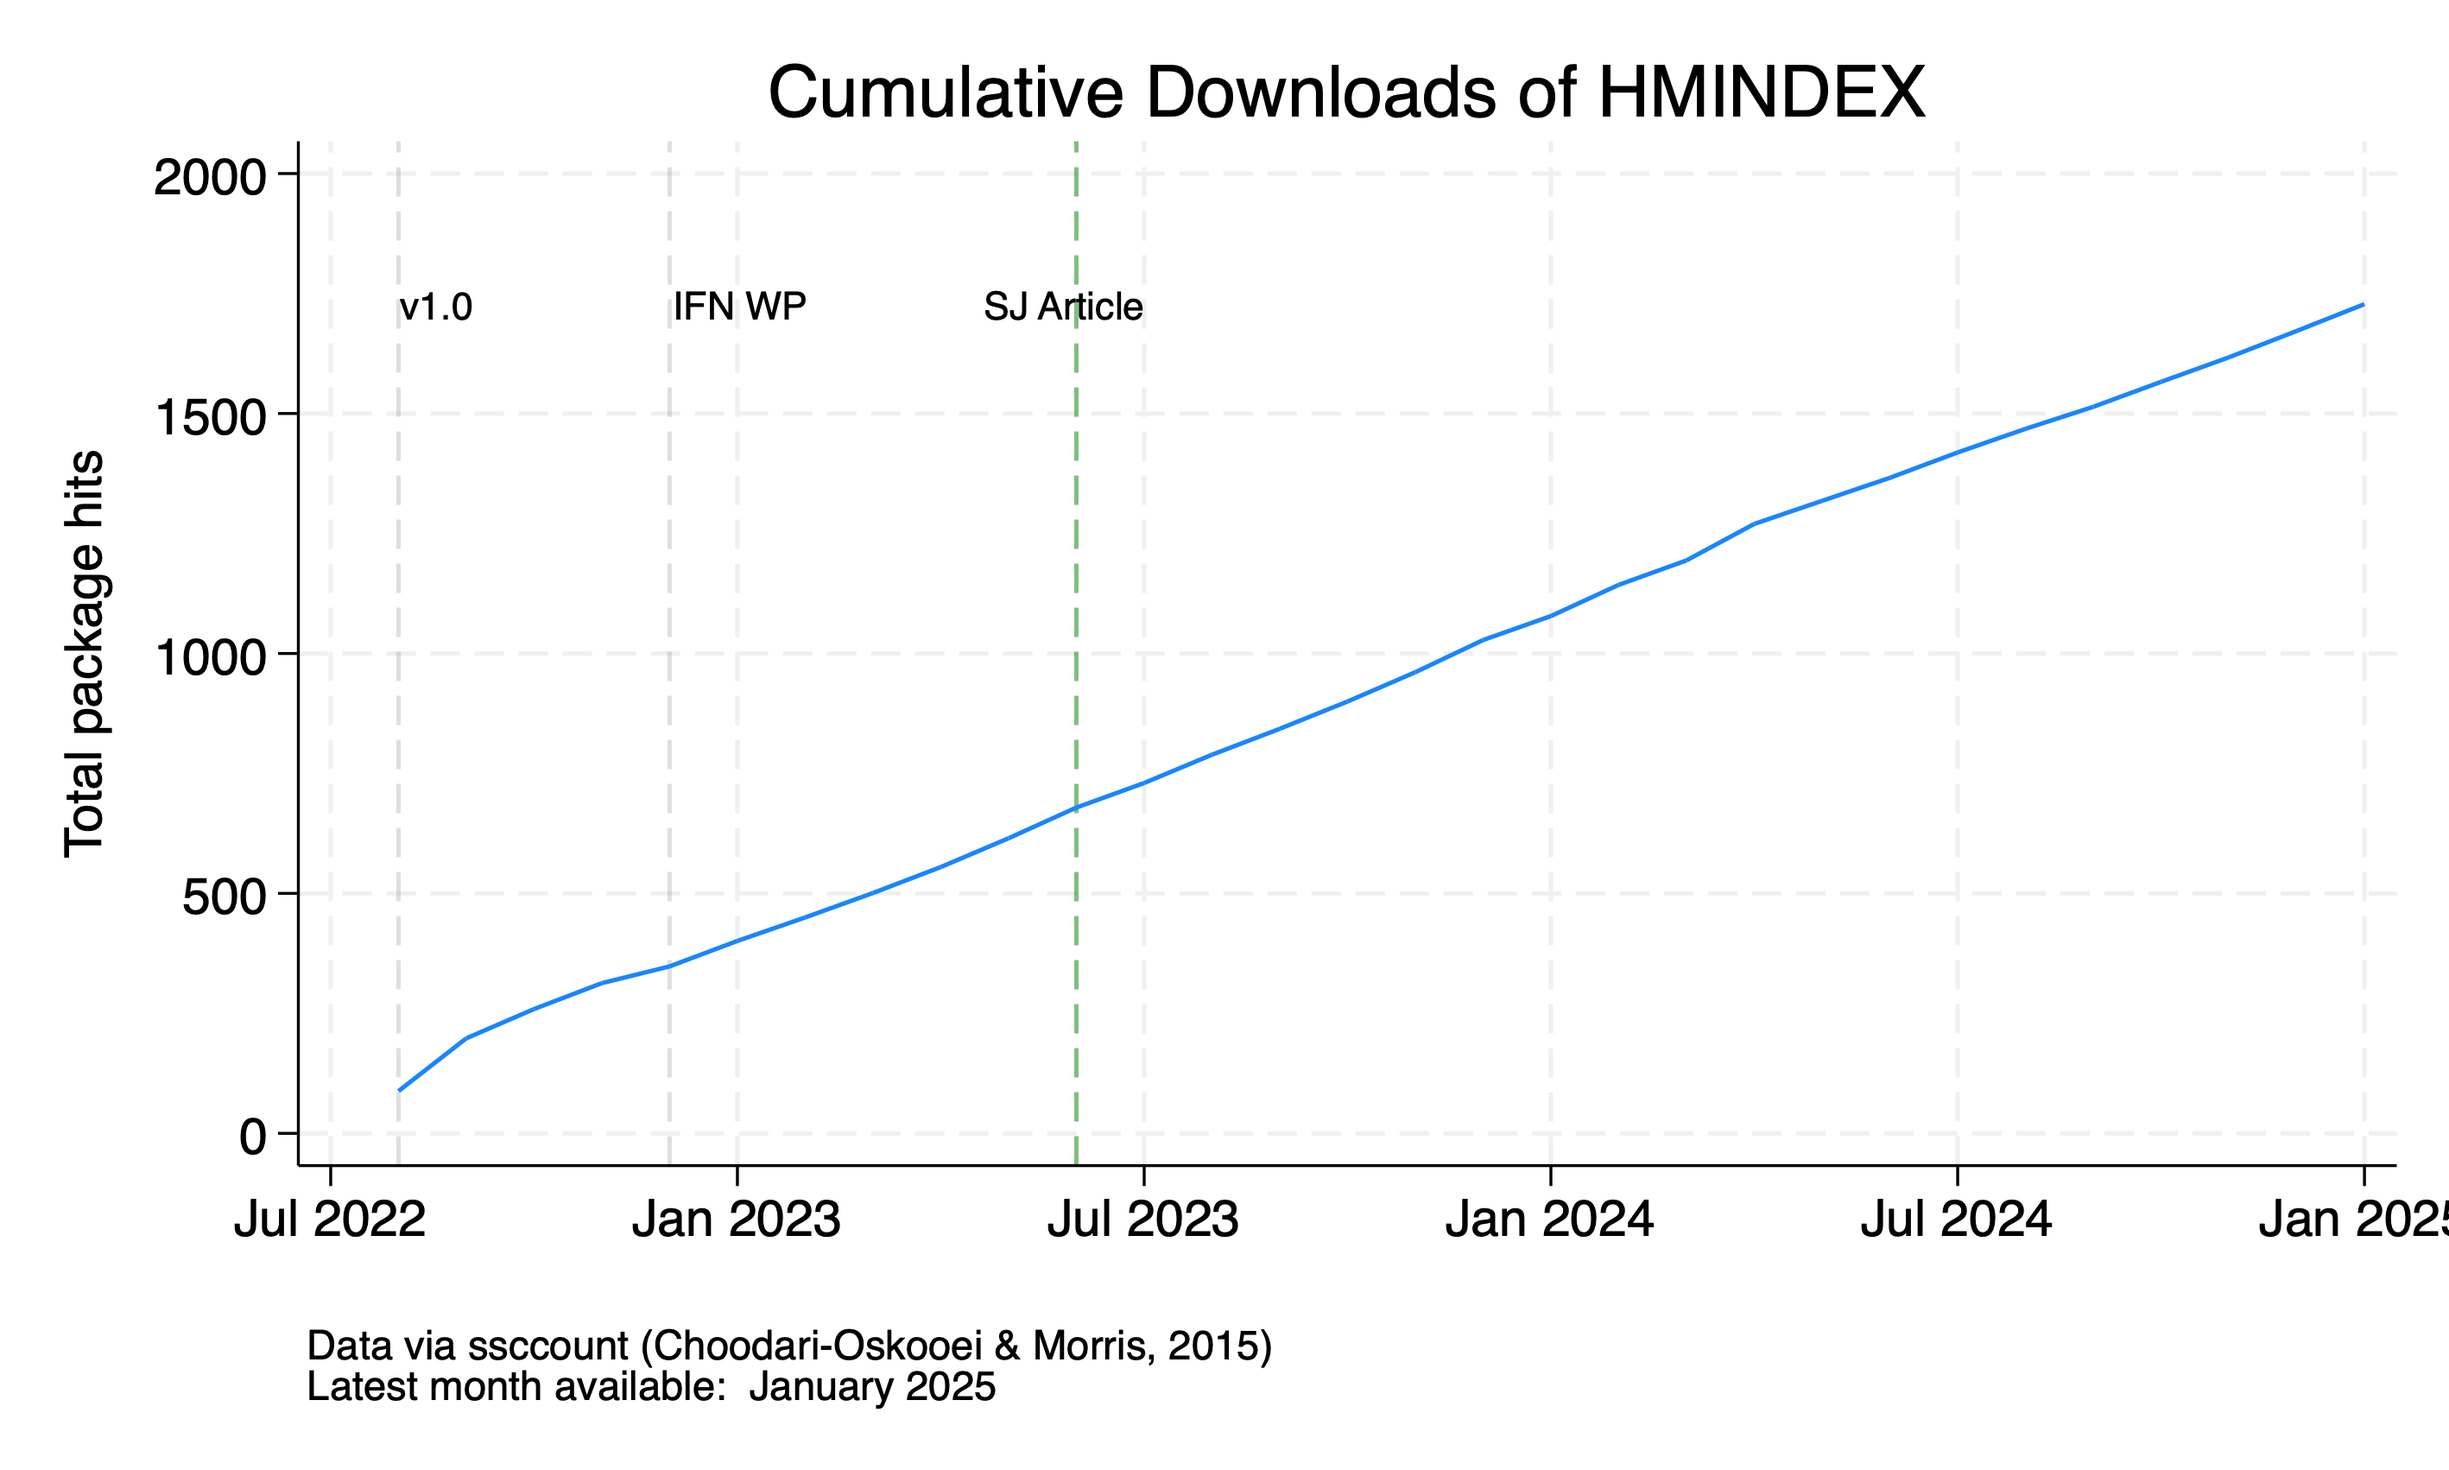
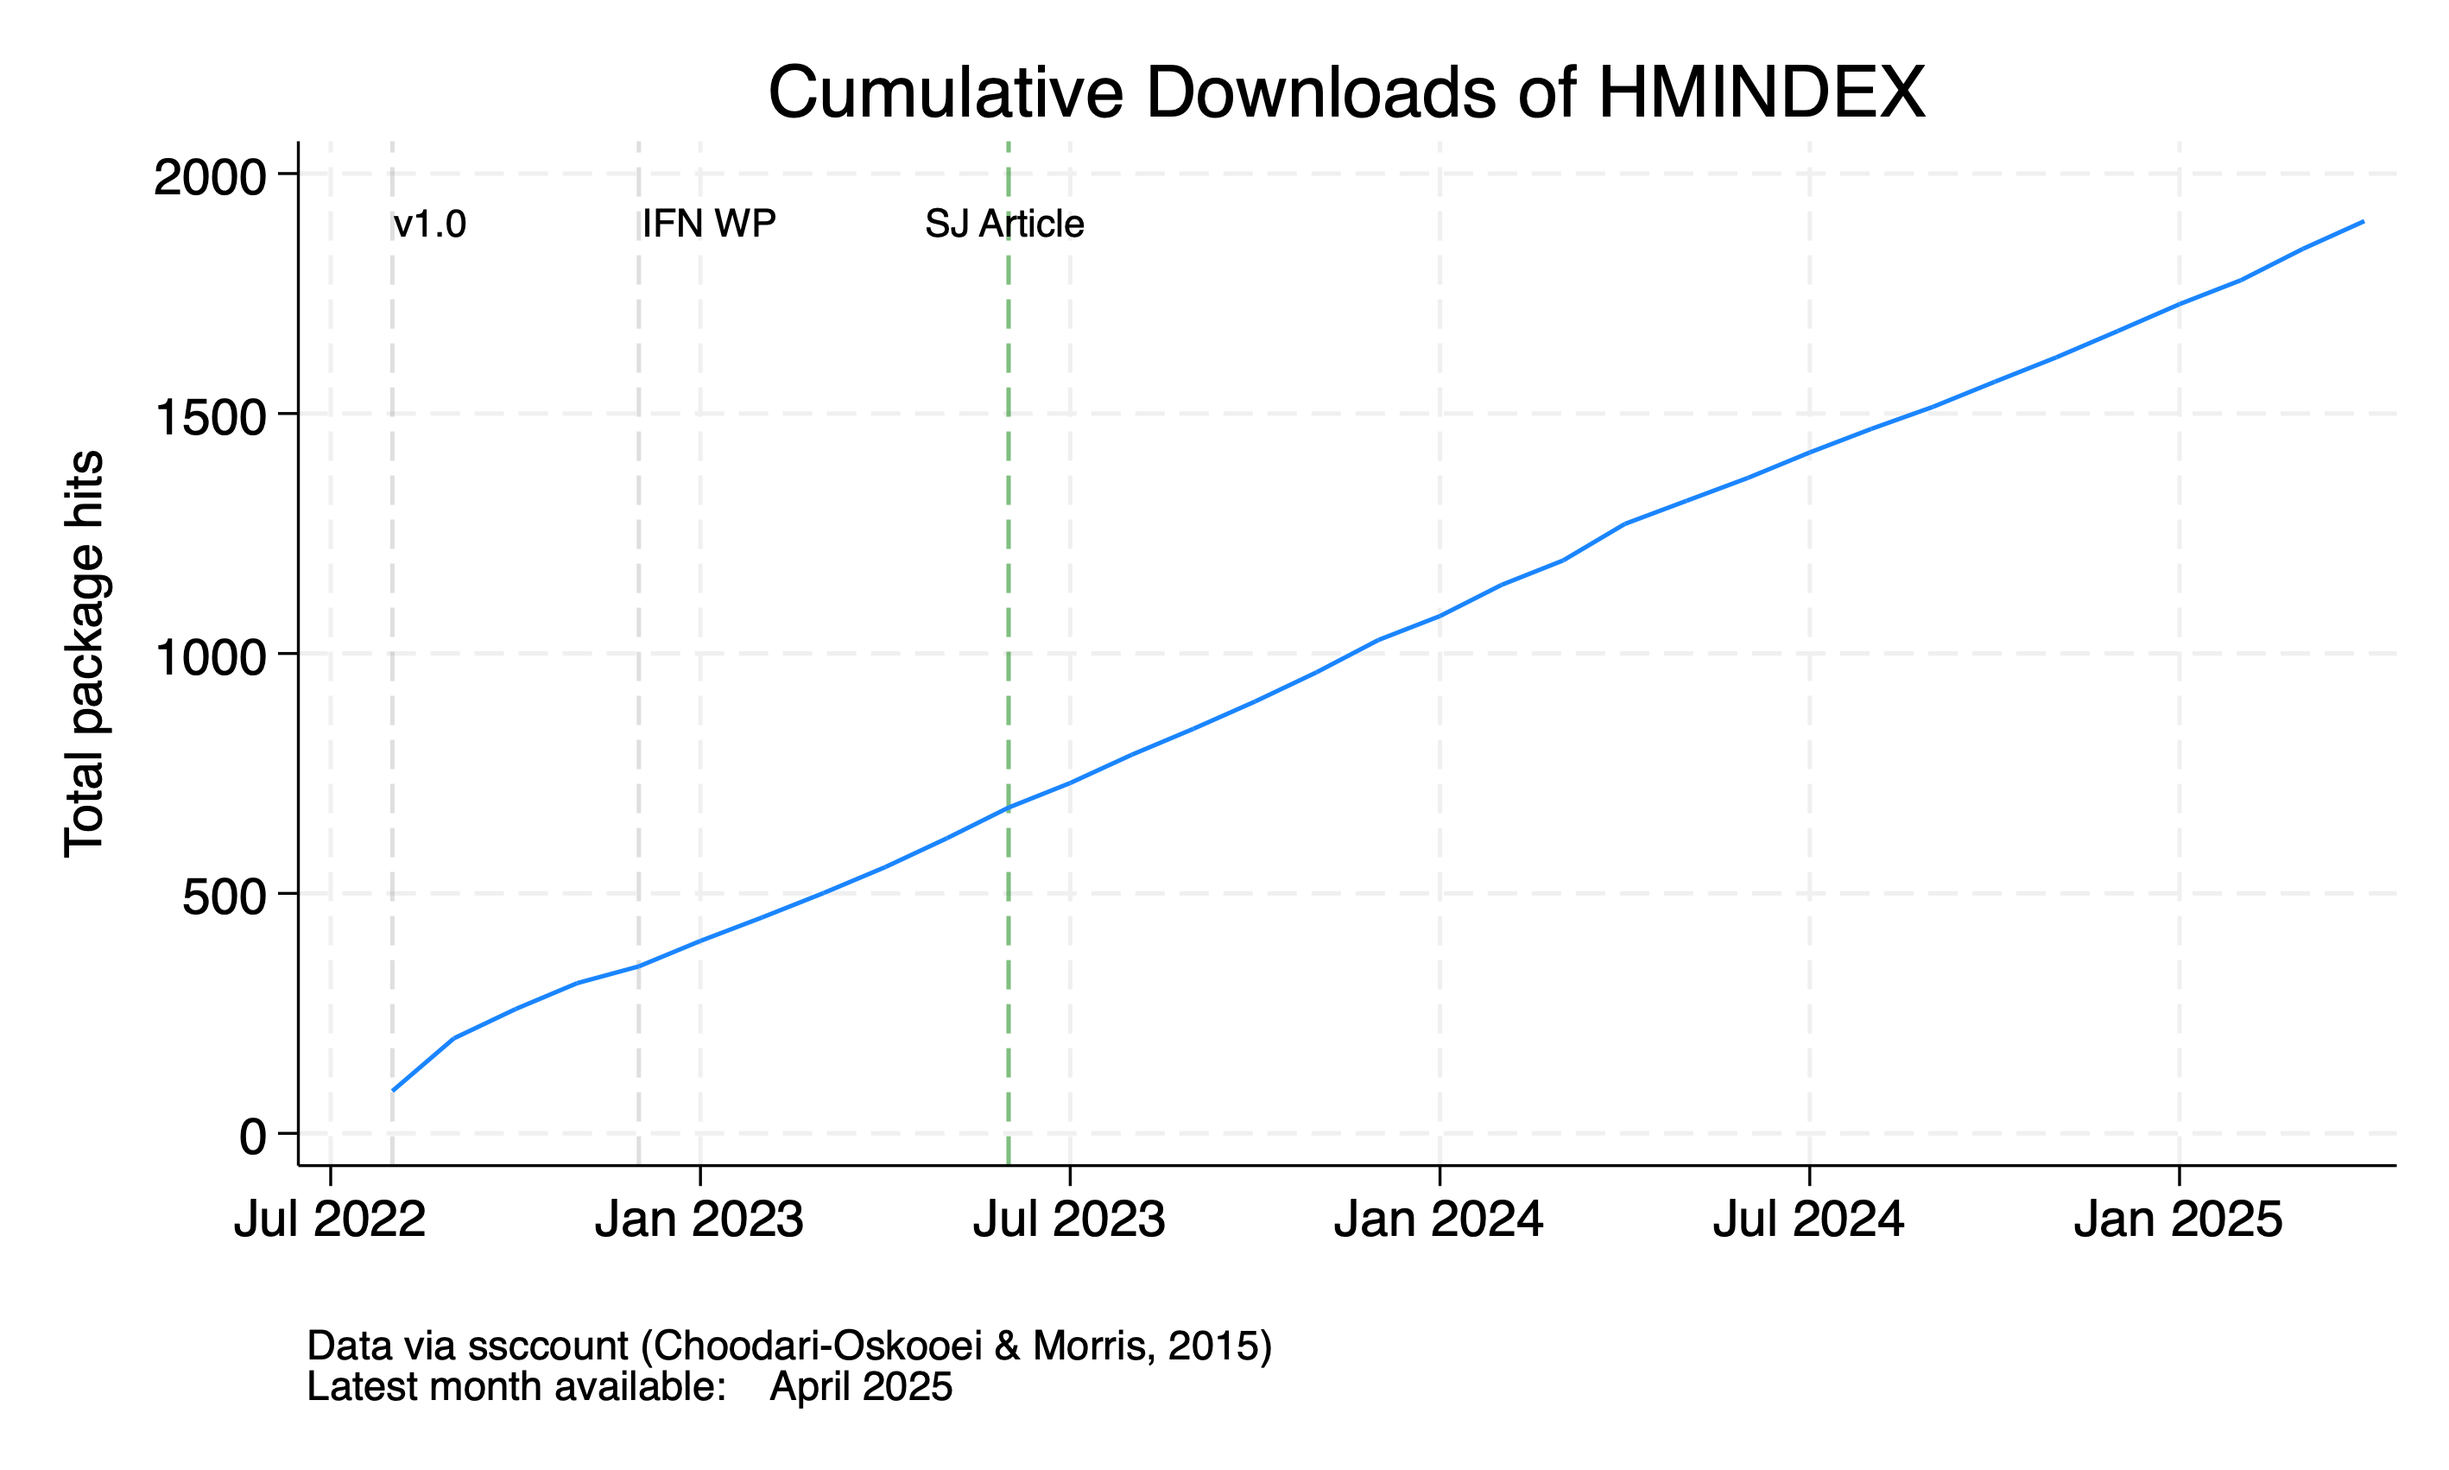
update npkghits

diff --git a/_research/2022-07-01-rpaxioms.md b/_research/2022-07-01-rpaxioms.md
@@ -17,7 +17,7 @@ household-level aggregate consumption data.
 ## Citation
 Demetry, M., Hjertstrand, P. and Polisson, M., 2022. Testing axioms of revealed preference in Stata. <i>The Stata Journal</i>, 22(2), pp.319-343.
 
-## Total downloads: 3,079
+## Total downloads: 3,289
 <img src="/assets/img/research-rpaxioms/rpaxioms_cumulative_hits.png" alt="number of downloads" width="100%"/>
 
 <details>

diff --git a/_research/2022-12-01-hmindex.md b/_research/2022-12-01-hmindex.md
@@ -13,7 +13,7 @@ note introduces the _Stata_ command __hmindex__, which calculates the Houtman-Ma
 prices and observed choices of a consumer. The command is illustrated with an empirical application.
 
 
-## Total downloads: 1,728
+## Total downloads: 1,901
 <img src="/assets/img/research-hmindex/hmindex_cumulative_hits.png" alt="number of downloads" width="100%"/>
 
 
